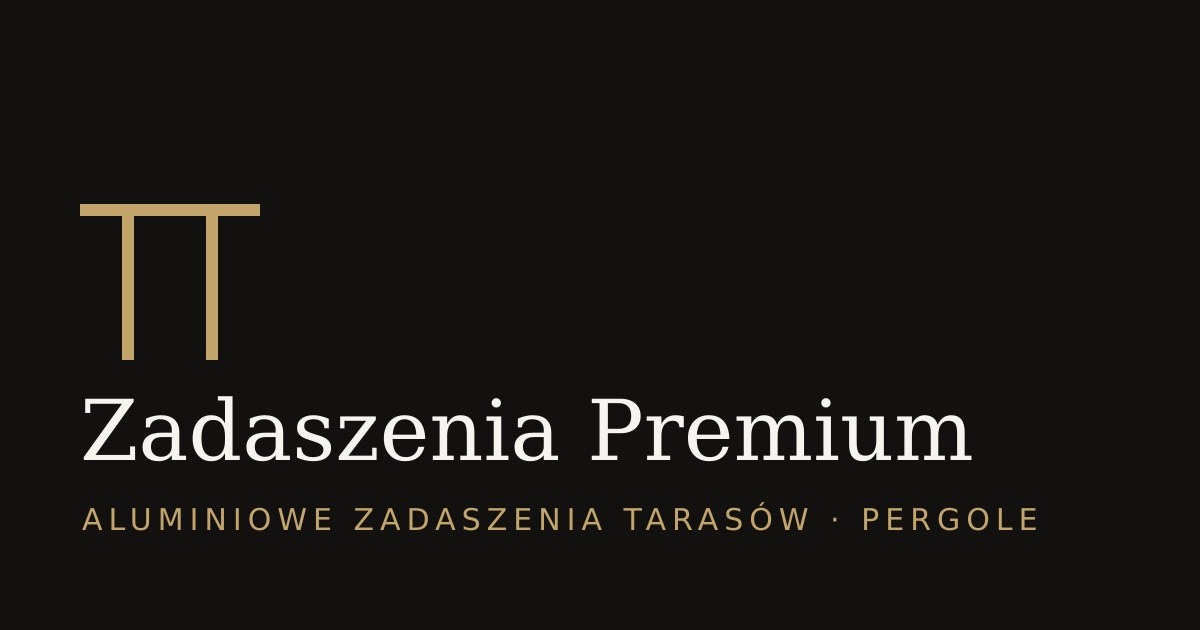
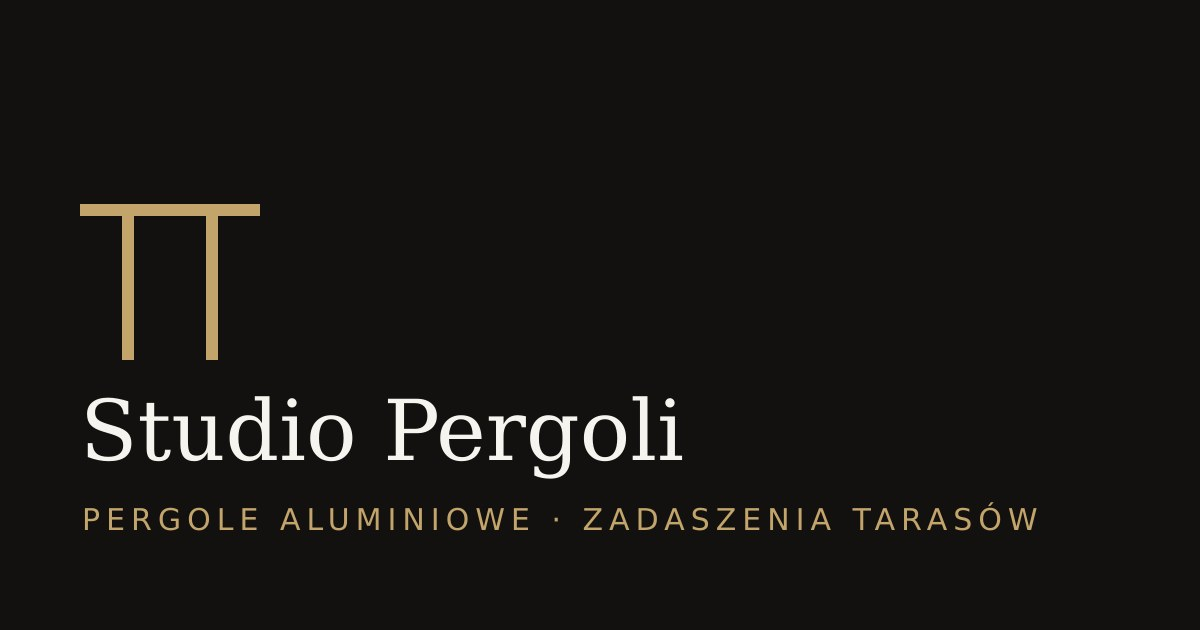
feat: rebrand to Studio Pergoli – pergola-first naming and titles
- Rename brand from "Zadaszenia Premium" to "Studio Pergoli" (site config, logo, manifest, blog author, docs)
- Switch domain to studiopergoli.pl (site URL, contact e-mail, sitemap/canonical)
- Lead homepage title, tagline, manifest and OG image with "Pergole aluminiowe"
- Regenerate OG image with the new name

Changed region(s): [[0.0617, 0.6333, 0.8017, 0.754], [0.0617, 0.7841, 0.8633, 0.8444]]

diff --git a/src/config/site.ts b/src/config/site.ts
@@ -4,11 +4,11 @@
  * jak i do danych strukturalnych. Po ustaleniu nazwy firmy wystarczy zmienić ten plik.
  */
 export const site = {
-  // TODO: potwierdzić rejestrację domeny zadaszeniapremium.pl i formę prawną
-  name: 'Zadaszenia Premium',
-  legalName: 'Zadaszenia Premium Sp. z o.o.',
-  url: 'https://www.zadaszeniapremium.pl',
-  tagline: 'Aluminiowe zadaszenia tarasów i pergole premium',
+  // TODO: potwierdzić rejestrację domeny studiopergoli.pl i formę prawną
+  name: 'Studio Pergoli',
+  legalName: 'Studio Pergoli Sp. z o.o.',
+  url: 'https://www.studiopergoli.pl',
+  tagline: 'Pergole aluminiowe i zadaszenia tarasów premium',
   description:
     'Aluminiowe zadaszenia tarasów, pergole lamelowe i zabudowy szklane klasy premium. Profile produkowane w Polsce, montaż w całej Polsce, 5 lat gwarancji.',
   // TODO: rok założenia firmy
@@ -16,7 +16,7 @@ export const site = {
 
   // TODO: prawdziwe dane kontaktowe
   phone: '+48 600 100 200',
-  email: 'kontakt@zadaszeniapremium.pl',
+  email: 'kontakt@studiopergoli.pl',
   address: {
     street: 'ul. Ogrodowa 12',
     postalCode: '26-600',

diff --git a/src/content.config.ts b/src/content.config.ts
@@ -59,7 +59,7 @@ const poradnik = defineCollection({
       description: z.string().max(160),
       published: z.coerce.date(),
       updated: z.coerce.date().optional(),
-      author: z.string().default('Zespół Zadaszenia Premium'),
+      author: z.string().default('Zespół Studio Pergoli'),
       cover: image(),
       coverAlt: z.string(),
       relatedService: z.enum(serviceTypes).optional(),

diff --git a/README.md b/README.md
@@ -1,4 +1,4 @@
-# Zadaszenia Premium – aluminiowe zadaszenia tarasów i pergole
+# Studio Pergoli – aluminiowe zadaszenia tarasów i pergole
 
 Statyczna strona-wizytówka zbudowana w **Astro 7 + Tailwind 4**, zoptymalizowana pod SEO. Siedziba w Radomiu, zasięg: cała Polska.
 Źródło wiedzy o ofercie: `Katalog.pdf` (systemy SMART, T-LINE, SKYLINE, pergole, wypełnienia, zacienienie, automatyka).
@@ -33,7 +33,7 @@ npm run verify            # typy + build + audyt SEO (title, description, H1, al
 
 ## ⚠ Przed publikacją
 - Obrazy w `src/assets/images` to **ilustracje zastępcze** – podmień na prawdziwe zdjęcia.
-- Domena `zadaszeniapremium.pl` – potwierdzić rejestrację; dane firmy (adres, NIP, telefon) w `site.ts` są przykładowe.
+- Domena `studiopergoli.pl` – potwierdzić rejestrację; dane firmy (adres, NIP, telefon) w `site.ts` są przykładowe.
 - **Realizacje w `src/content/realizacje/` i opinie są przykładowe** (oznaczone „PRZYKŁAD”) – zastąp prawdziwymi.
 - Ceny w usługach, cenniku, kalkulatorze i artykule o cenach są poglądowe.
 - Dane firmy, ceny, statystyki, **oceny i opinie są przykładowe** – publikowanie zmyślonych opinii/ocen (także w schema.org)

diff --git a/docs/PLAN.md b/docs/PLAN.md
@@ -1,4 +1,4 @@
-# Plan projektu – Zadaszenia Premium (aluminiowe zadaszenia tarasów i pergole)
+# Plan projektu – Studio Pergoli (aluminiowe zadaszenia tarasów i pergole)
 
 ## Cel
 Szybka, nowoczesna strona-wizytówka, której głównym zadaniem jest **pozyskiwanie zapytań z Google**
